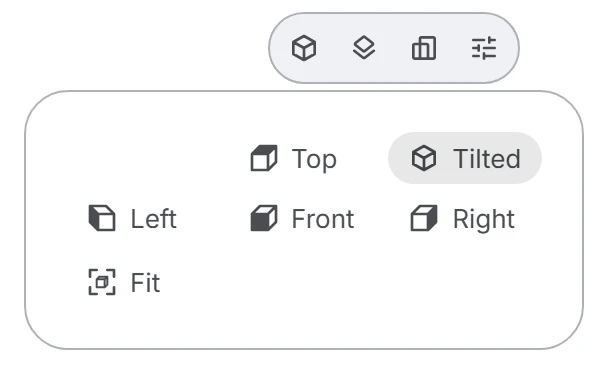
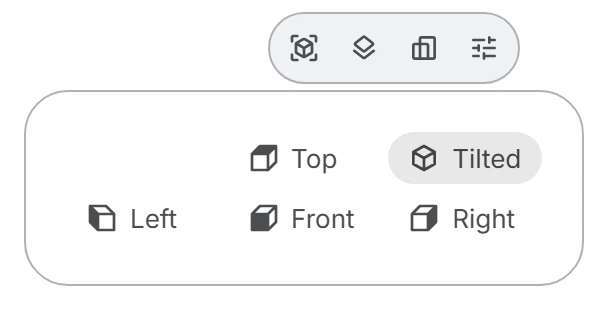
Dev mode's pictures and page without Fit

diff --git a/apps/catalogue/src/pages/DevMode.tsx b/apps/catalogue/src/pages/DevMode.tsx
@@ -44,8 +44,8 @@ const shots = {
     light: toolbarLight,
     dark: toolbarDark,
     width: 304,
-    height: 189,
-    alt: "Dev mode's toolbar of four dropdowns, the first open: the view's angles laid out as they look at the page, Top above Front, Left and Right beside it, Tilted in the top right corner, and Fit below them.",
+    height: 157,
+    alt: "Dev mode's toolbar of four dropdowns, the first open: the view's angles laid out as they look at the page, Top above Front, Left and Right beside it, and Tilted in the top right corner.",
   },
   inspector: {
     light: inspectorLight,
@@ -57,8 +57,8 @@ const shots = {
   spacing: {
     light: spacingLight,
     dark: spacingDark,
-    width: 318,
-    height: 299,
+    width: 223,
+    height: 211,
     alt: 'One card alone, close up and tilted: the padding around its content and the gaps between its parts are hatched.',
   },
   problems: {
@@ -71,8 +71,8 @@ const shots = {
   frame: {
     light: frameLight,
     dark: frameDark,
-    width: 394,
-    height: 680,
+    width: 362,
+    height: 668,
     alt: "The application laid out at a phone's size, inside a frame with handles on its edges: its three columns of cards are outlined in red, their words broken over many short lines.",
   },
 } satisfies Record<string, Shot>;
